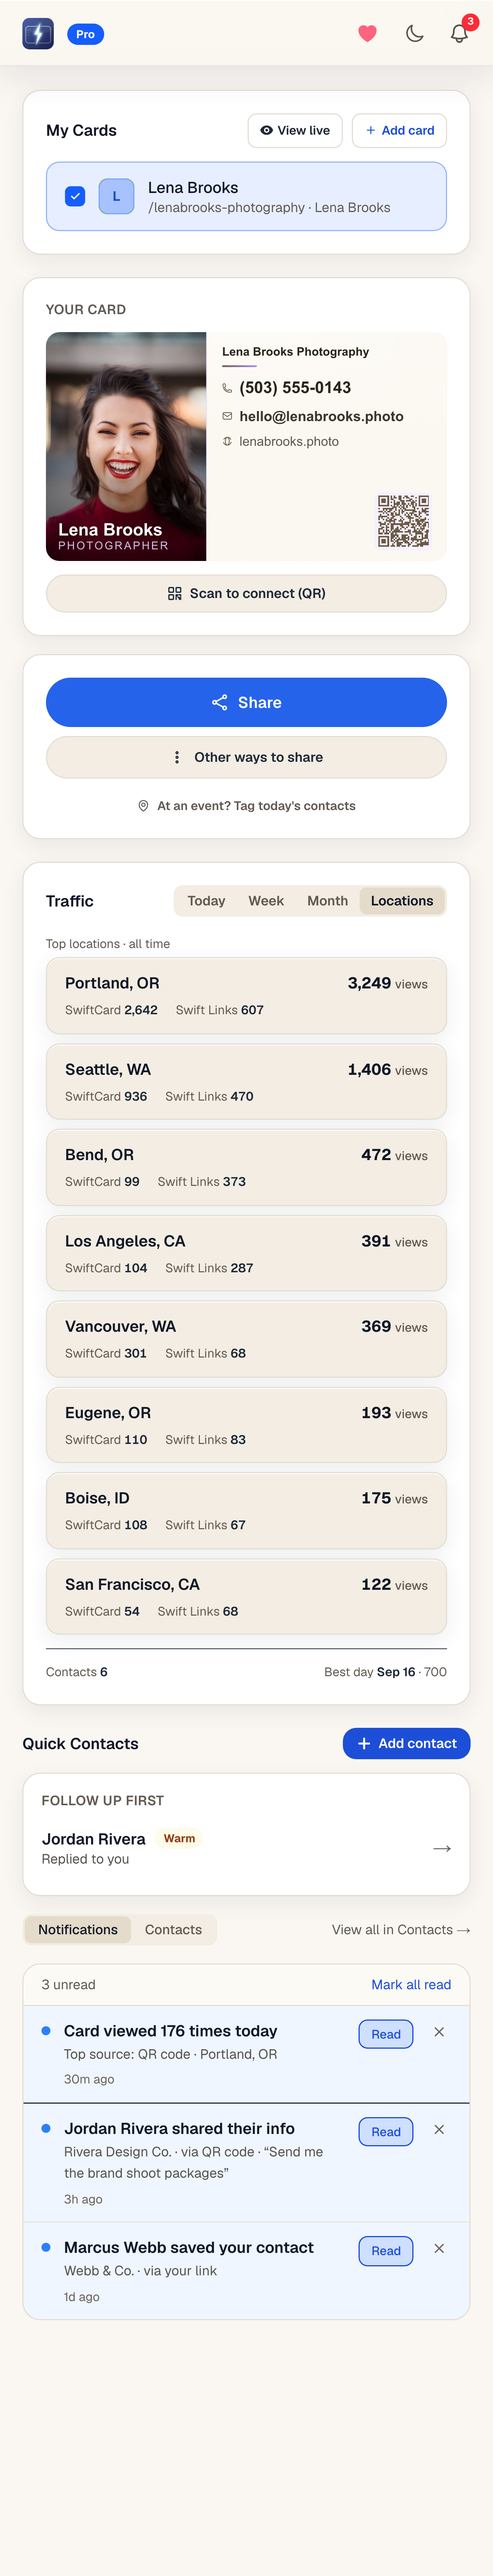
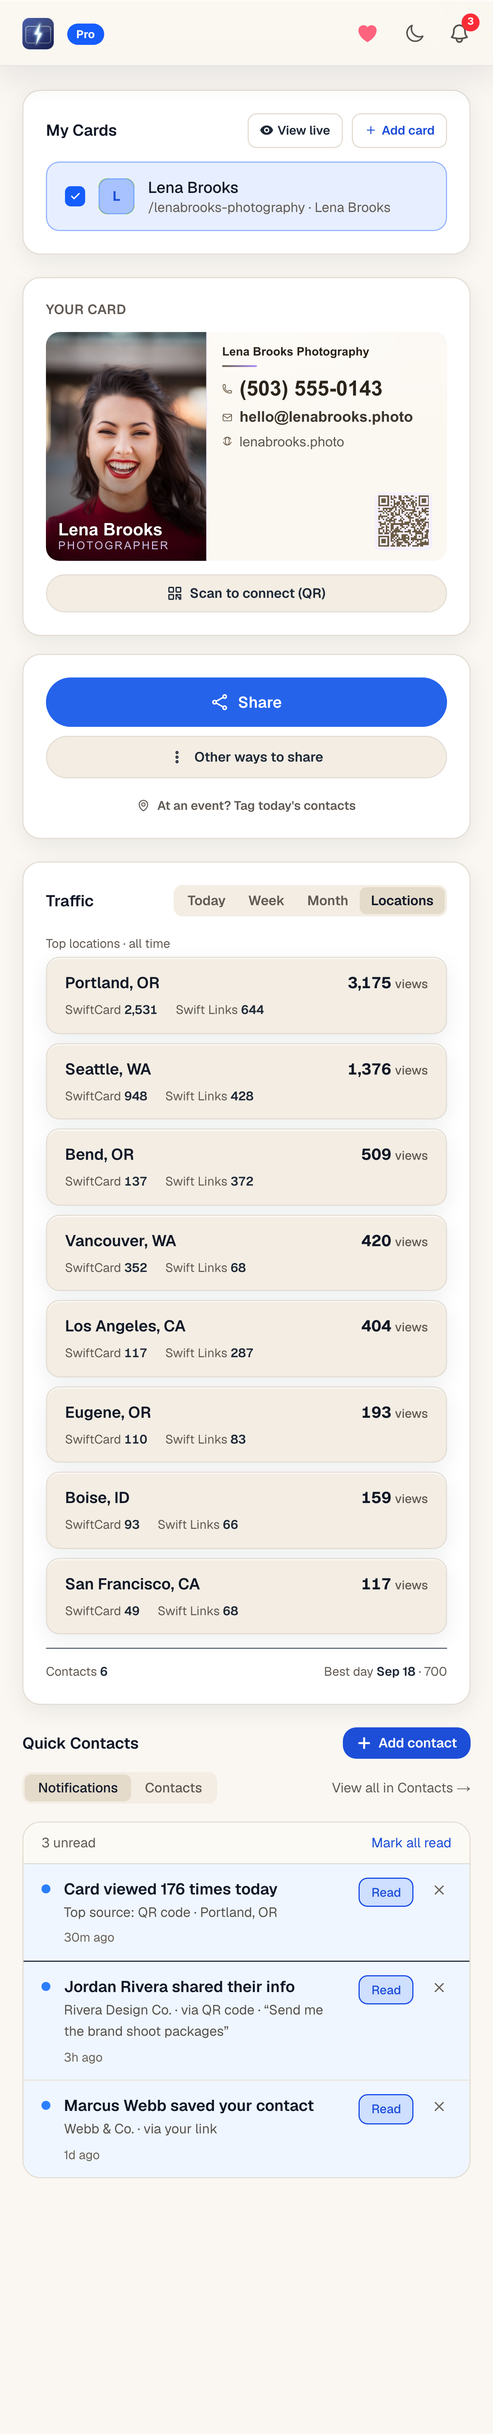
iOS 1.0.3 (build 13): v7 App Store screenshots, and a release that leaves the watch out by itself
The v6 set approved on 2026-09-22 showed Hot/Warm chips, "Copy personal link"
and the per-contact alert switch — all removed from the app the next day. v7 is
a fresh capture of today's app through the same pipeline (capture → compose-v5
→ upload), uploaded to 1.0.3 in App Store Connect 10/10.

- compose-v5: pop-out numbers re-typed from the new capture (4,336 / Sep 18 ·
  700 / Portland 3,175 = 2,531 + 644); the frame HTML now declares UTF-8 — a
  frame with only a curly apostrophe and a middot was sniffed as windows-1252
  and rendered "whoâ€™s".
- ios-release.sh --no-watch now archives from a throwaway sibling copy of the
  project with the App target's watch dependency and "Embed Watch Content"
  phase stripped. The watch profiles have never existed, so the plain archive
  died at GatherProvisioningInputs; editing project.pbxproj in the shared
  working tree was the alternative. The copy is removed on exit and ignored.
- pbxproj: MARKETING_VERSION 1.0.2 → 1.0.3 (build stays 13; build 13 was
  staged as a 1.0.2 re-upload and never went up).
- What's New for 1.0.3 in asc-whats-new.mjs and the metadata doc: the v3
  launch screen, foreground push banners, and the "stops receiving
  notifications" fix.

diff --git a/docs/ios-review/APP-STORE-METADATA.md b/docs/ios-review/APP-STORE-METADATA.md
@@ -204,26 +204,30 @@ the design that script now produces. A listing refresh means steps 1–3 in orde
 on a machine that has the service-role key.
 
 ## Version
-- 1.0.2, build 13. "What's New": `This update is all about accessibility.
-  • Larger Text: SwiftCard now follows your iPhone's text size, right up to the
-  largest accessibility sizes. • VoiceOver and Voice Control: clearer labels
-  and a more predictable reading order throughout. • Better contrast, and
-  Reduce Motion is now respected across the app.`
-  (1.0.2 is the ACCESSIBILITY release: Dynamic Type in MainViewController's
-  web view, the VoiceOver/contrast/reduced-motion pass, and the system rating
-  prompt. Build 11 predates all of it, so the live 1.0.1 does not scale with
-  Larger Text even though the accessibility labels published 2026-09-11 say it
-  does — that gap is what 1.0.2 closes. The "What's New" text above is the
-  source of truth for `scripts/asc-whats-new.mjs`.
-
-  BUILD 13 SUPERSEDES BUILD 12, same version and same release notes: it is
-  build 12 plus the v3 launch screen (the owner's field and mark, with the
-  lightning drawn into it — `scripts/build-splash-v3.mjs`, the launch images in
-  `Splash.imageset`, and `SwiftCardSplash/3` in the user agent so the server
-  serves the matching animation). A launch screen is not a "What's New" line,
-  which is why the copy is unchanged. Upload build 13 and attach THAT one; build
-  12 was staged in App Store Connect and never submitted. NOT submitted either
-  way — Menash presses Add for Review.)
+- 1.0.3, build 13. "What's New": `A new launch screen, and notifications now
+  show as banners while you're using the app. Also fixed: the app no longer
+  quietly stops receiving notifications after the first one.`
+  (1.0.3 = build 13, uploaded 2026-09-24: build 12 plus the v3 launch screen —
+  the owner's field and mark with the lightning drawn into it,
+  `scripts/build-splash-v3.mjs`, the launch images in `Splash.imageset`, and
+  `SwiftCardSplash/3` in the user agent so the server serves the matching
+  animation — plus `presentationOptions` in capacitor.config.ts so a push shows
+  as a banner while the app is in the foreground. The APNs "phone deleted after
+  its first push" fix (00f477f9) is server-side and already live, but the
+  symptom was in the app, so the note names it. Ships with the v7 screenshot
+  set, recaptured 2026-09-24 after Hot/Warm scoring, "Copy personal link" and
+  the per-contact alert switch were removed from the app. Build 13 was
+  originally staged as a 1.0.2 re-upload and never uploaded; 1.0.2 went live as
+  build 12. The "What's New" text in `scripts/asc-whats-new.mjs` tracks the
+  CURRENT in-flight version, so it carries the 1.0.3 copy.)
+- 1.0.2, build 12 shipped 2026-09-11 and is live. "What's New": `This update is
+  all about accessibility. • Larger Text: SwiftCard now follows your iPhone's
+  text size, right up to the largest accessibility sizes. • VoiceOver and Voice
+  Control: clearer labels and a more predictable reading order throughout. •
+  Better contrast, and Reduce Motion is now respected across the app.`
+  (The ACCESSIBILITY release: Dynamic Type in MainViewController's web view,
+  the VoiceOver/contrast/reduced-motion pass, and the system rating prompt.
+  Build 11 predated all of it.)
 - 1.0.1, build 11 shipped 2026-09-03 and is live. "What's New": `Push
   notifications now work — get alerted the moment someone views your card or
   saves their details. Also fixes Universal Links and the home-screen widget.`
